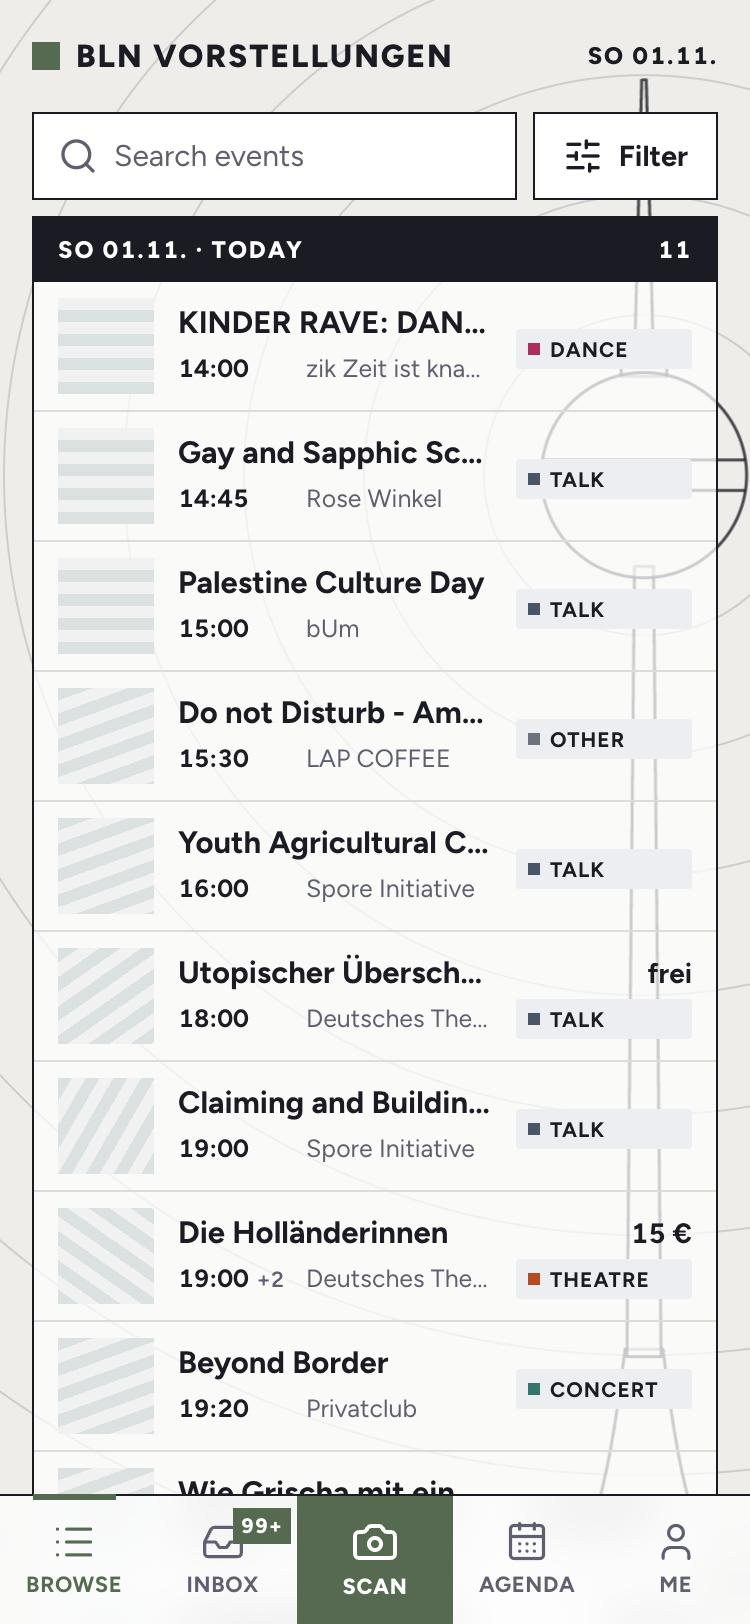
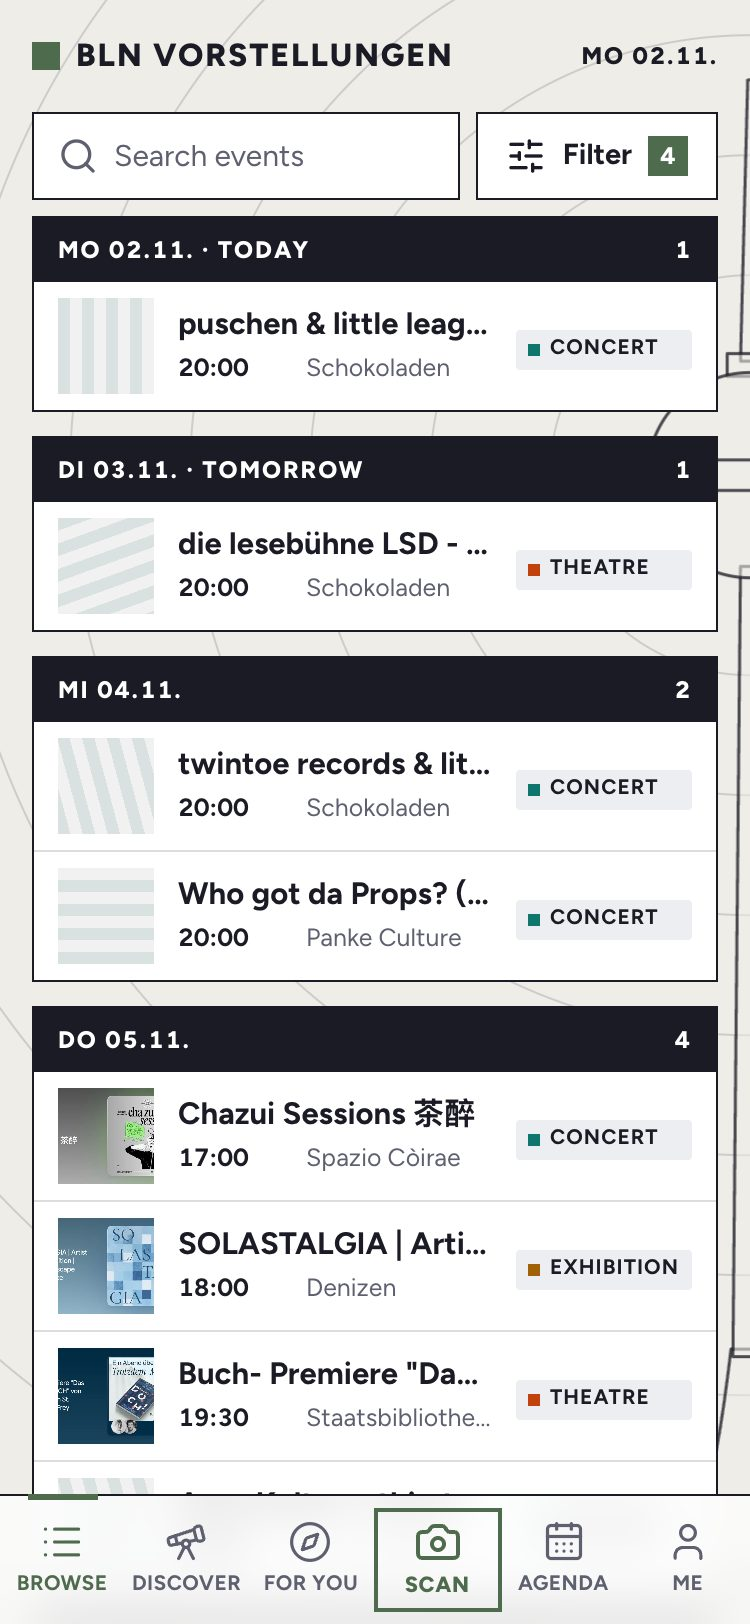
Show event images in list rows; refresh README screenshots and sources

diff --git a/apps/web/src/components/EventRow.tsx b/apps/web/src/components/EventRow.tsx
@@ -7,7 +7,7 @@ import { SwipeRow } from './SwipeRow';
 
 const ANGLES = [90, 60, 145, 35, 120, 0, 160, 75];
 
-/** Stable pseudo-random hatch angle per event, standing in for a thumbnail until images exist. */
+/** Stable pseudo-random hatch angle per event: the thumbnail's background, and the thumbnail when there is no image. */
 export function hatchAngle(slug: string): string {
   let h = 0;
   for (const ch of slug) h = (h * 31 + ch.charCodeAt(0)) | 0;
@@ -75,7 +75,14 @@ function RowLink({
       draggable={false}
       className="flex min-h-16 items-center gap-3 px-3 py-2 text-ink no-underline hover:bg-chip/60"
     >
-      <div className="hatch size-12 shrink-0" style={{ ['--hatch-angle' as string]: hatchAngle(item.slug) }} />
+      <div
+        className="hatch size-12 shrink-0 overflow-hidden"
+        style={{ ['--hatch-angle' as string]: hatchAngle(item.slug) }}
+      >
+        {item.image && (
+          <img src={item.image} alt="" loading="lazy" decoding="async" className="size-full object-cover" />
+        )}
+      </div>
       <div className="min-w-0 flex-1">
         <div className="flex items-center gap-1.5 text-[15.5px] leading-5 font-bold">
           <span className="truncate">{item.title}</span>

diff --git a/docs/09-decisions.md b/docs/09-decisions.md
@@ -282,8 +282,8 @@ Format: date · decision · why · alternatives rejected. Newer entries supersed
   only the live programme, ~10–100 MB of the 10 GB free; one transformation per new event, ~1–3k a month of the 5,000
   free (over the limit, Images returns 9422 on the free plan and charges nothing; the event waits a day); R2 writes
   and deletes ~2 per event of 1M free; reads one per image view of 10M free, fewer with Workers Caching. $0 a month.
-  Keeping past images would grow R2 by ~50 MB a month for pages nobody opens, so they are dropped. Rows in lists keep
-  no thumbnail for now (text-first design, and 30 more requests per list view).
+  Keeping past images would grow R2 by ~50 MB a month for pages nobody opens, so they are dropped. Rows in lists show it
+  as their 48 px thumbnail (lazy; the hatch stays behind it and without one).
 - **2026-11-02 · Discover: a daily editorial page.** A new tab `/discover` (between Browse and For you) reads like a
   magazine page instead of a list: a headline and lede, the lead story beside a short "Focus on" list (two or three
   concrete things to do, each linking to its story), then stories laid out by what they are: rails for dates (this
@@ -305,6 +305,17 @@ Format: date · decision · why · alternatives rejected. Newer entries supersed
   The copy uses the review's model (`SCORE_MODEL`, Haiku): at a tenth of a cent an edition, editorial copy is where
   quality shows; Workers AI stays the automatic fallback inside `callJson`. Rejected: clustering live per request
   (the copy would no longer match the stories).
+- **2026-11-02 · Fifteen more sources; each source says where its images are.** Found by a research pass that
+  fetched every candidate (Berlin Gig Guide and The Next Day on Substack, field notes, Madame Claude, Badehaus,
+  SO36, Index Berlin, Cassiopeia, KM28, HAU, Radialsystem, Siegessäule's sex calendar, Lab.oratory, RAZAM,
+  @standupberlin). Bot walls ruled out berlin-buehnen.de, Rausgegangen, Resident Advisor, Stressfaktor and Radar;
+  JavaScript-only pages ruled out the Philharmonie and tip. Each candidate page was dry-run through
+  `/api/admin/extract` from production before it was added. SO36's shop publishes `tickets.json`, read by a new
+  `ticketshop` adapter without an LLM; RAZAM's iCal also lists Munich and online events, so iCal sources take a
+  `city`; RSS cleans only the entries it keeps (`maxItems`), since a Substack feed carries every post in full (1 MB).
+  Images: a source's `image_mode` (`auto`: its own image, else the event's page; `feed`: its own only; `none`) is set
+  once per source, so pages that never have an image are not fetched for each new event. Luma and Berliner Ensemble
+  start on `feed` (their pages gave nothing for 47 and 19 events).
 - **2026-10-02 · React + Vite + TanStack + Tailwind + shadcn/ui.** Best coverage by design tools and implementing
   models. Rejected: SvelteKit (good, but weaker design-tool output), Next.js on Workers via OpenNext (heavier than
   needed; no SSR requirement since public pages can be cached JSON + client render; revisit if SEO matters).

diff --git a/README.md b/README.md
@@ -5,10 +5,10 @@
 ### → [bln-vorstellungen.aliaksei-zhynhiarouski.workers.dev](https://bln-vorstellungen.aliaksei-zhynhiarouski.workers.dev)
 
 <p align="center">
-  <img src="docs/images/screen-browse.jpg" alt="Today's events in Berlin, grouped by day" width="200">
-  <img src="docs/images/screen-inbox.jpg" alt="Inbox card: score 88 with the reason it matches" width="200">
-  <img src="docs/images/screen-event.jpg" alt="Event page with score, reasons and all dates" width="200">
-  <img src="docs/images/screen-agenda.jpg" alt="Agenda: what you're going to, by day" width="200">
+  <img src="docs/images/screen-discover.jpg" alt="Discover: today's edition, led by three post-punk nights" width="200">
+  <img src="docs/images/screen-for-you.jpg" alt="For you: today's highlights, with what critics say and what to book early" width="200">
+  <img src="docs/images/screen-browse.jpg" alt="Browse: concerts, theatre and exhibitions by day, with event images" width="200">
+  <img src="docs/images/screen-event.jpg" alt="Event page with the venue's image, dates and where it was listed" width="200">
 </p>
 
 Berlin has hundreds of stages, and each one publishes its programme its own way: a calendar feed here, a Spielplan
@@ -17,6 +17,10 @@ in a sentence what you like, and it ranks every upcoming event for you and says 
 
 ## What makes it good
 
+- **A daily front page.** Discover leads with what stands out in the coming weeks (a scene, a venue, a far-ahead
+  booking), written fresh each morning, for you or for the city.
+- **Highlights that tell you why now.** For you picks what to book early, what is made for you, last chances and
+  what critics say, after looking up reviews online.
 - **One list for the whole city.** Theatre, opera, concerts, clubs and talks side by side. A production with twelve
   performances is one entry, not twelve rows.
 - **AI reads the venue pages.** Claude reads Spielplan pages that have no feed: every date, price and room.
@@ -33,6 +37,11 @@ in a sentence what you like, and it ranks every upcoming event for you and says 
 
 ## Where the events come from
 
-The Left Berlin · Luma Berlin · Maxim Gorki Theater · Berliner Ensemble · Deutsches Theater · Staatsoper Unter den
-Linden · A-Trane · Privatclub · Bar jeder Vernunft. Each is checked on its own schedule, every 6 to 24 hours.
+**Theatre and performance:** Berliner Ensemble · Deutsches Theater · Maxim Gorki Theater · HAU Hebbel am Ufer ·
+Radialsystem · Bar jeder Vernunft. **Opera and new music:** Staatsoper Unter den Linden · field notes (Berlin's
+new-music calendar) · KM28. **Concerts and clubs:** SO36 · Schokoladen · Cassiopeia · Badehaus · Madame Claude ·
+Privatclub · A-Trane · Panke Culture · OGH and LOGE (Telegram). **Art:** Index Berlin gallery openings. **Guides:**
+Berlin Gig Guide · The Next Day · Luma Berlin · The Left Berlin. **Communities:** RAZAM (Belarusian) · Stand Up
+Berlin (Russian-language comedy) · Siegessäule's sex calendar and Lab.oratory (opt-in). Each is checked on its own
+schedule, every 2 to 24 hours.
 Adding a venue is one entry, not new code.

diff --git a/docs/03-sourcing.md b/docs/03-sourcing.md
@@ -96,6 +96,7 @@ The extractor is given the item's `publishedAt` and today's date, and must emit 
 | `bandsintown` | public artist events API | app id (free) | Use per-user followed artists → "your artists in Berlin". |
 | `songkick` | metro area events, if API access is granted | key | Optional. |
 | `jsonld` | fetch page, read `<script type="application/ld+json">` `Event` objects | – | Many ticket pages expose schema.org Event; cheap and exact. Try before `html`. |
+| `ticketshop` | fetch a ticket shop's product JSON (`/tickets.json`), one product = one show | – | Direct map, no LLM: date, doors, support acts, price, sold out, image. Config `city` drops tours elsewhere. SO36. |
 | `sitemap` | discover event pages from sitemap, then `jsonld`/`html` per page | – | For large venue sites. |
 | `spotify` | **not an event source**: imports the user's top artists/genres into the taste profile | user OAuth | Combined with `bandsintown`/`ra` lineups for matching. |
 | `facebook` | **no automated adapter.** Facebook blocks scraping and has no public events API. | – | Manual: screenshot → `photo`, or paste → `text`. Document this limitation in the UI. |
